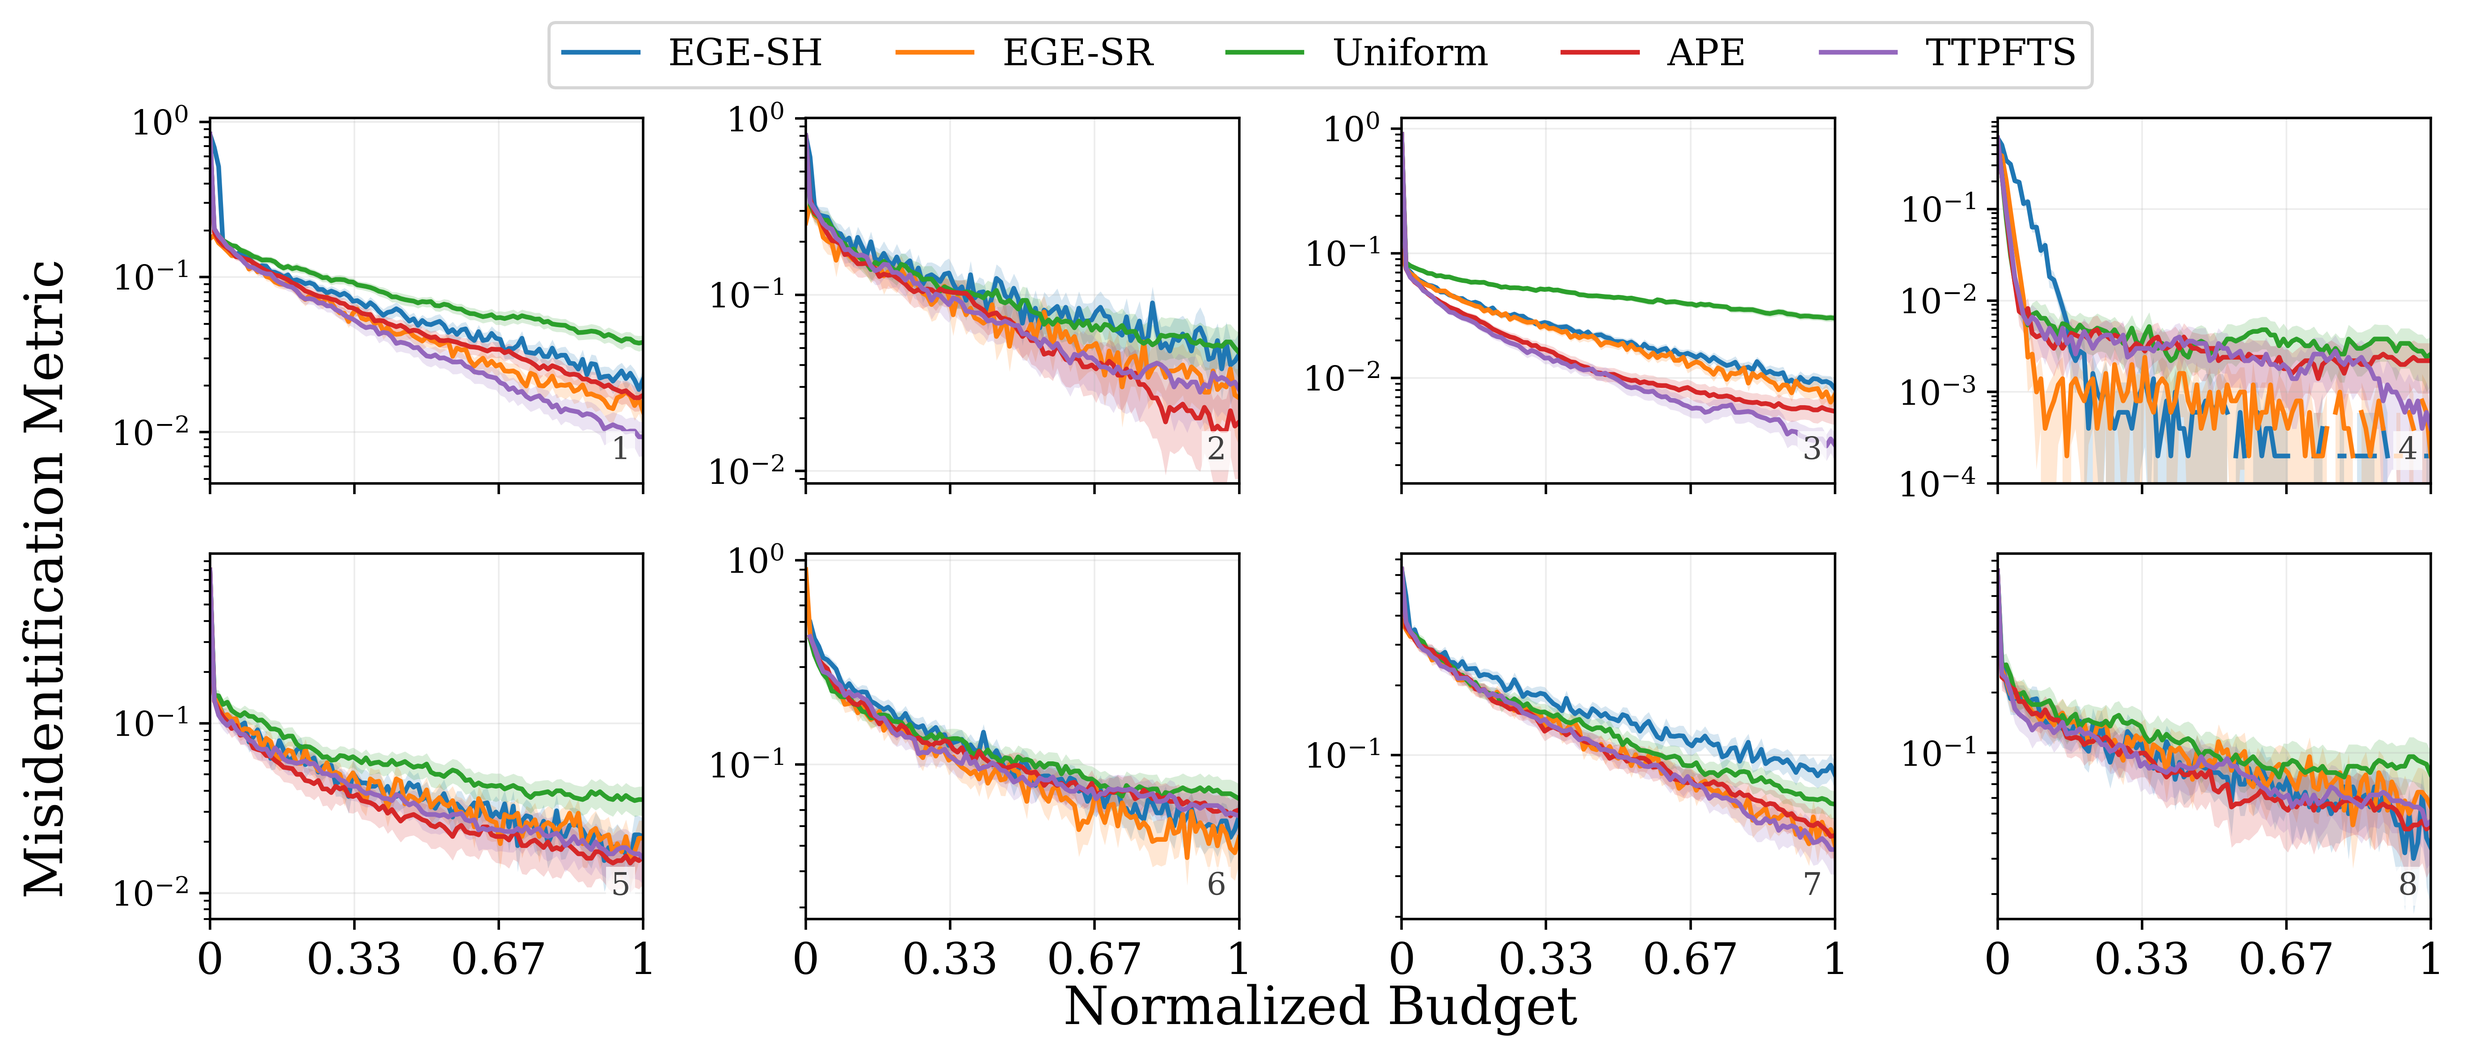
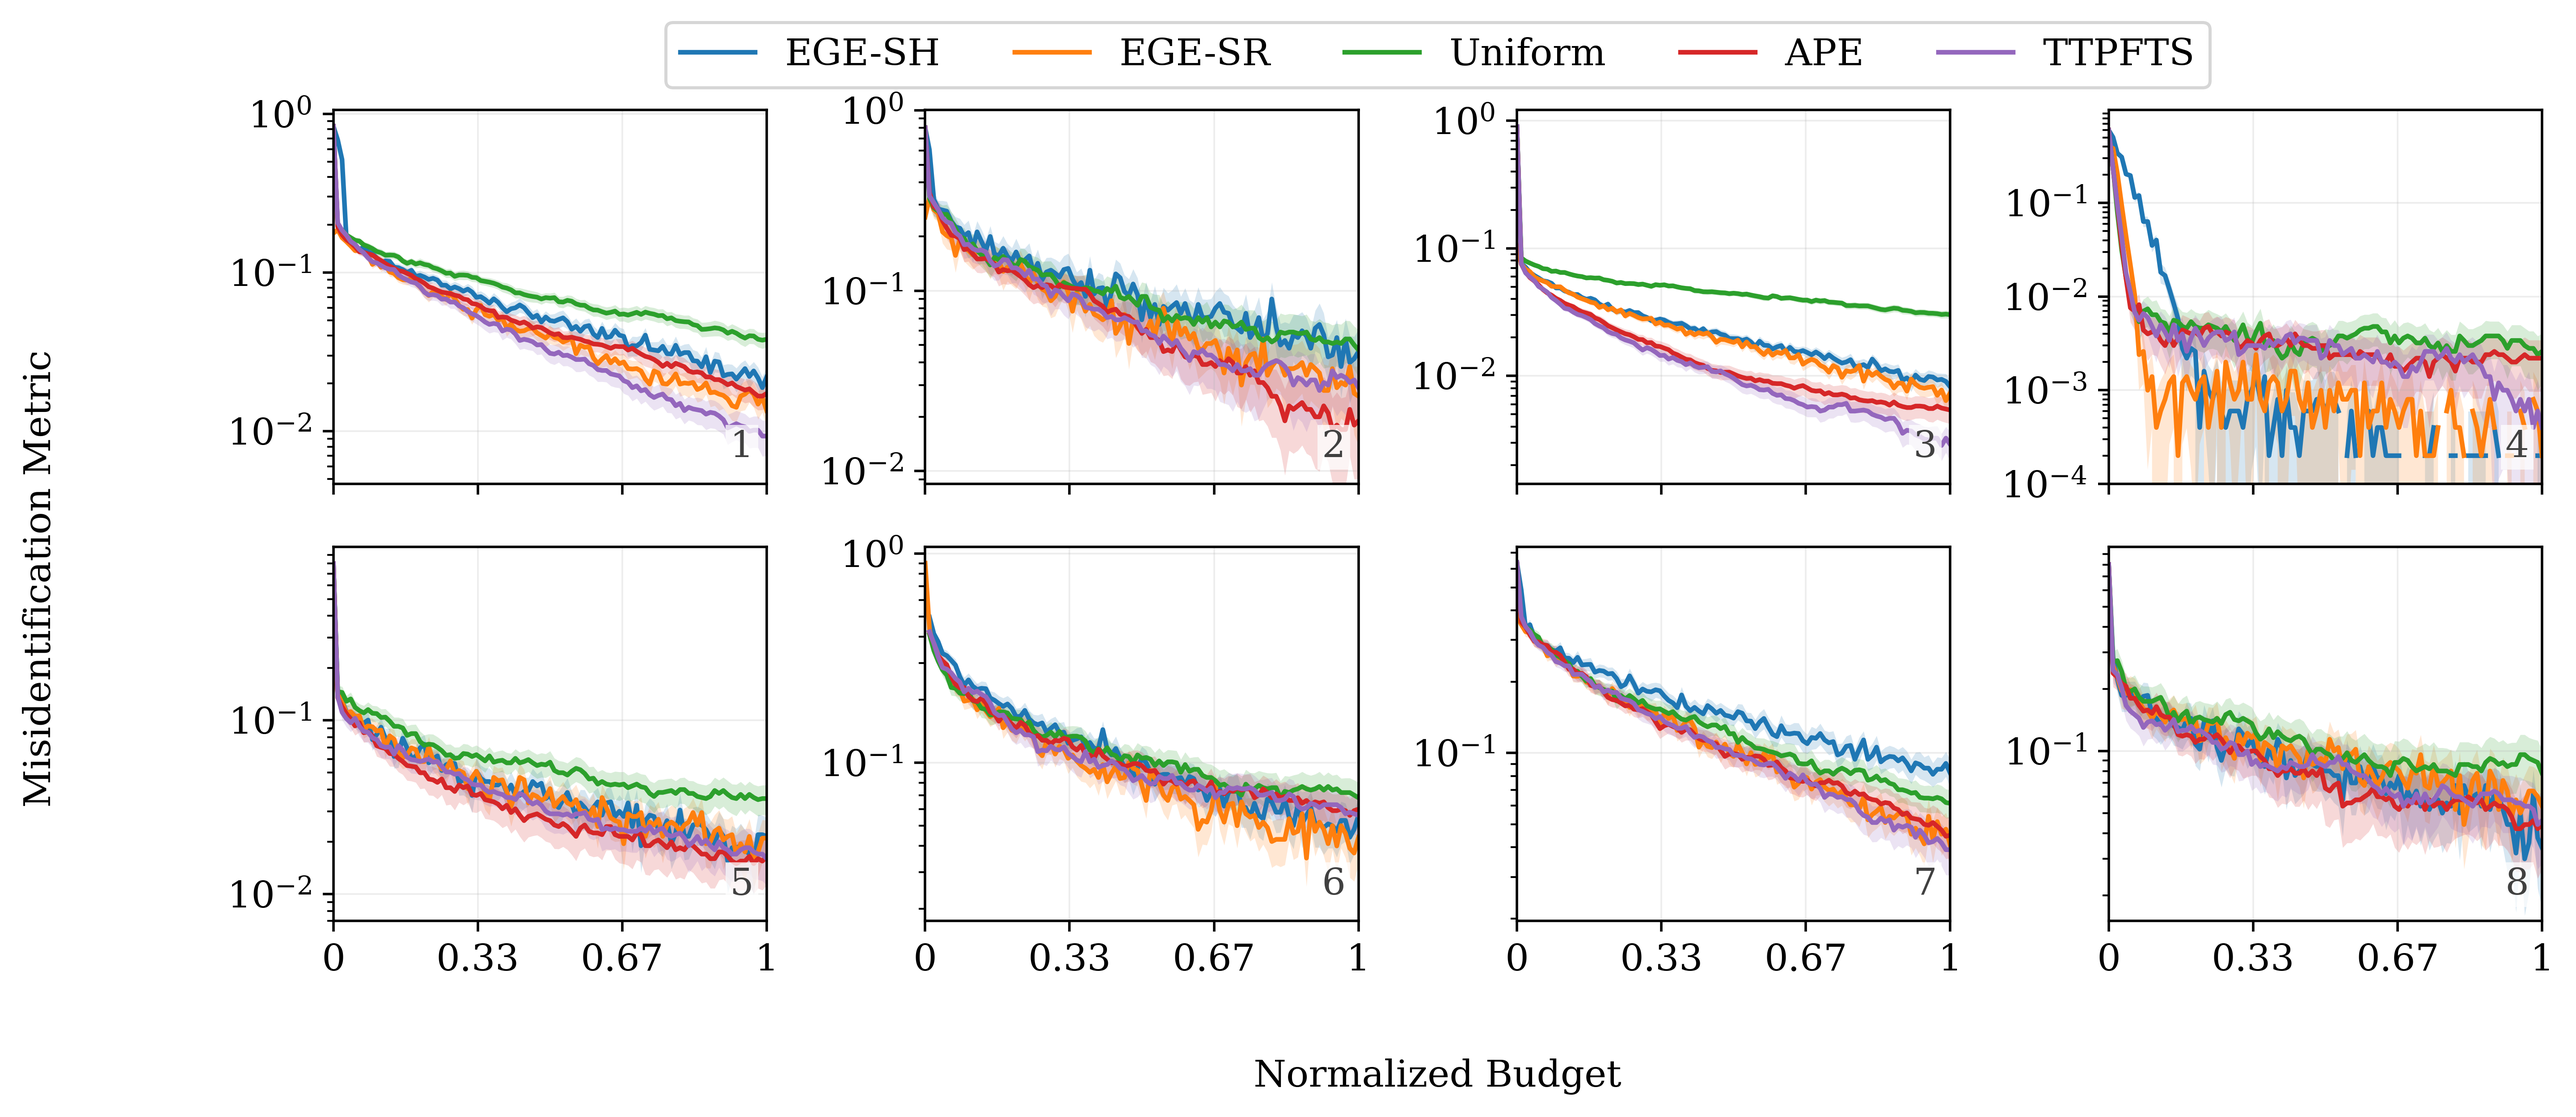
Standardize publication plot typography
Match legend, labels, annotations, and ticks to a shared 12-point publication font size and add modest spacing between the subplot grid and its shared axis labels. Add regression coverage for typography consistency.

diff --git a/plotting.py b/plotting.py
@@ -63,6 +63,8 @@ DEFAULT_EGE_BUDGETS = {
     "EgeExp8": 237958,
 }
 
+PUBLICATION_FONT_SIZE = 12
+
 
 def _canonical_metric(metric: str) -> str:
     try:
@@ -548,7 +550,7 @@ def plot_metric_all_envs_grid_top_legend(
                 transform=ax.transAxes,
                 ha="right",
                 va="bottom",
-                fontsize=10,
+                fontsize=PUBLICATION_FONT_SIZE,
                 color="0.25",
                 bbox={"facecolor": "white", "edgecolor": "none", "alpha": 0.75, "pad": 1.5},
             )
@@ -607,13 +609,14 @@ def plot_metric_all_envs_grid_top_legend(
                     raise AssertionError(f"{env_name} has no positive misidentification values for log plotting")
                 ax.set_yscale("log")
                 ax.set_ylim(bottom=float(positive.min()) / 2.0)
-                ax.tick_params(axis="y", labelsize=11)
+                ax.tick_params(axis="y", labelsize=PUBLICATION_FONT_SIZE)
             else:
                 ax.set_ylim(bottom=0)
         ax.xaxis.set_major_locator(FixedLocator(np.linspace(0.0, 1.0, 4)))
         ax.xaxis.set_major_formatter(
             FuncFormatter(lambda value, _: f"{value:.2f}".rstrip("0").rstrip("."))
         )
+        ax.tick_params(axis="both", labelsize=PUBLICATION_FONT_SIZE)
         ax.grid(True, alpha=0.22, linewidth=0.55)
 
     for j in range(n_env, nrows * ncols):
@@ -632,15 +635,23 @@ def plot_metric_all_envs_grid_top_legend(
         loc="upper center",
         bbox_to_anchor=(0.5, 0.89),
         ncol=min(6, max(1, len(labels))),
-        fontsize=12,
+        fontsize=PUBLICATION_FONT_SIZE,
         frameon=True,
     )
-    x_label = fig.supxlabel("Normalized Budget", y=0.19)
-    fig.supylabel(METRIC_LABELS[metric_key], x=0.15)
+    x_label = fig.supxlabel(
+        "Normalized Budget",
+        y=0.15,
+        fontsize=PUBLICATION_FONT_SIZE,
+    )
+    fig.supylabel(
+        METRIC_LABELS[metric_key],
+        x=0.115,
+        fontsize=PUBLICATION_FONT_SIZE,
+    )
     # Reserve a fixed band for the figure-level legend.  This must not be
     # inferred from the axes' tick-label extents: log-scaled axes have taller
     # tick labels and would otherwise push the legend outside the saved figure.
-    fig.tight_layout(rect=[0.13, 0.13, 1, 0.855])
+    fig.tight_layout(rect=[0.145, 0.15, 1, 0.855])
     visible_axes = [ax for ax in axes.flat if ax.get_visible()]
     grid_left = min(ax.get_position().x0 for ax in visible_axes)
     grid_right = max(ax.get_position().x1 for ax in visible_axes)

diff --git a/test_plotting_regression.py b/test_plotting_regression.py
@@ -19,6 +19,7 @@ import pandas as pd
 
 from plotting import (
     DEFAULT_ALGORITHM_ORDER,
+    PUBLICATION_FONT_SIZE,
     load_legacy_results,
     plot_metric_all_envs_grid_top_legend,
     summarize_metric_for_plot,
@@ -199,8 +200,34 @@ def test_misidentification_log_scale_and_compact_x_ticks():
         for label in ax.get_yticklabels()
         if label.get_visible()
     ]
-    check("misidentification y tick labels use 11pt font", all(size == 11 for size in y_tick_sizes),
+    check(
+        "misidentification y tick labels use publication font size",
+        all(size == PUBLICATION_FONT_SIZE for size in y_tick_sizes),
           str(y_tick_sizes))
+    plt.close(fig)
+
+
+def test_publication_font_sizes_match_legend():
+    fig, axes, _, _, _ = _make_plot("Jaccard")
+    fig.canvas.draw()
+    legend_sizes = [text.get_fontsize() for text in fig.legends[0].get_texts()]
+    axis_sizes = [
+        label.get_fontsize()
+        for ax in axes.flat
+        for label in [*ax.get_xticklabels(), *ax.get_yticklabels()]
+        if label.get_visible()
+    ]
+    annotation_sizes = [text.get_fontsize() for ax in axes.flat for text in ax.texts]
+    shared_sizes = [
+        text.get_fontsize()
+        for text in fig.texts
+        if text.get_text() in {"Normalized Budget", "Jaccard Metric"}
+    ]
+    check("legend uses publication font size", all(size == PUBLICATION_FONT_SIZE for size in legend_sizes))
+    check("axis ticks use publication font size", all(size == PUBLICATION_FONT_SIZE for size in axis_sizes))
+    check("environment annotations use publication font size",
+          all(size == PUBLICATION_FONT_SIZE for size in annotation_sizes))
+    check("shared labels use publication font size", all(size == PUBLICATION_FONT_SIZE for size in shared_sizes))
     plt.close(fig)
 
 
@@ -243,6 +270,7 @@ if __name__ == "__main__":
     run("shared labels and six-entry legend", test_shared_labels_and_legend_entries)
     run("sparse EGE grids", test_sparse_ege_grids_not_interpolated)
     run("misidentification log scale and x ticks", test_misidentification_log_scale_and_compact_x_ticks)
+    run("publication font-size consistency", test_publication_font_sizes_match_legend)
     run("legacy archive loading", test_legacy_archive_loading_still_works)
     run("Wilson interval correctness", test_wilson_interval_correctness)
     run("direct summary endpoint assertion", test_summary_direct_endpoint_assertion)

diff --git a/plot_results_local.py b/plot_results_local.py
@@ -20,7 +20,7 @@ import matplotlib.pyplot as plt
 
 from plotting import DEFAULT_EGE_BUDGETS, plot_metric_all_envs_grid_top_legend
 
-plt.rcParams.update({"font.size": 14, "font.family": "serif"})
+plt.rcParams.update({"font.size": 12, "font.family": "serif"})
 
 
 def get_env_configs():
